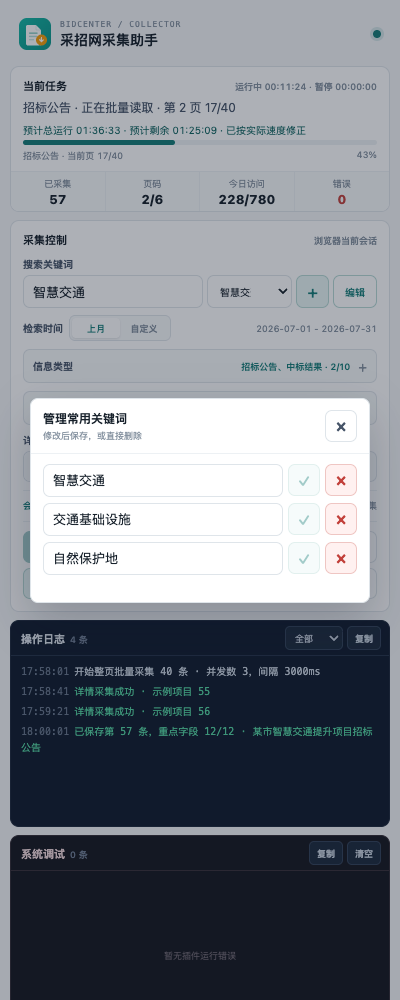
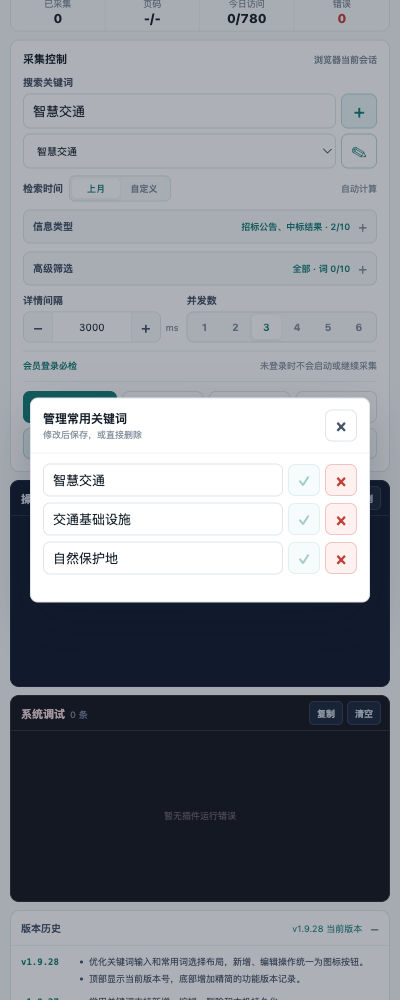
feat: 优化关键词控件和版本展示

diff --git a/sidepanel.css b/sidepanel.css
@@ -33,7 +33,7 @@ button:disabled { cursor: not-allowed; opacity: .4; }
 .activation-shell { width: min(100%, 380px); }
 .activation-brand { display: flex; align-items: center; gap: 9px; margin-bottom: 10px; }
 .activation-logo { width: 34px; height: 34px; flex: 0 0 auto; border-radius: 8px; }
-.activation-brand strong { display: block; margin-top: 2px; font-size: 15px; }
+.activation-brand strong { margin-top: 2px; font-size: 15px; }
 .activation-content { padding: 12px 0 11px; border-block: 1px solid var(--line); }
 .activation-content h2 { margin: 0 0 6px; font-size: 19px; line-height: 25px; }
 .activation-free-notice { margin: 0; padding: 6px 8px; border-left: 3px solid var(--accent); background: var(--accent-soft); color: var(--text-2); font-size: 10px; line-height: 15px; }
@@ -71,6 +71,8 @@ button:disabled { cursor: not-allowed; opacity: .4; }
 .brand-copy { min-width: 0; flex: 1; }
 .brand-kicker { color: var(--muted); font: 8px/11px ui-monospace, SFMono-Regular, Menlo, monospace; letter-spacing: .12em; }
 h1 { margin: 1px 0 0; font-size: 14px; line-height: 18px; font-weight: 750; }
+.brand-title { display: flex; min-width: 0; align-items: center; gap: 6px; }
+.version-badge { display: inline-flex; height: 17px; flex: 0 0 auto; align-items: center; padding: 0 5px; border: 1px solid #b7d9d5; border-radius: 4px; background: var(--accent-soft); color: var(--accent); font: 700 8px/1 ui-monospace, SFMono-Regular, Menlo, monospace; }
 .status-dot { width: 8px; height: 8px; flex: 0 0 auto; border-radius: 50%; background: #c3cdd4; }
 .status-dot.running { background: var(--accent); box-shadow: 0 0 0 3px rgba(22,125,120,.14); }
 .status-dot.waiting, .status-dot.paused { background: var(--warning); box-shadow: 0 0 0 3px rgba(213,138,23,.14); }
@@ -101,10 +103,12 @@ h1 { margin: 1px 0 0; font-size: 14px; line-height: 18px; font-weight: 750; }
 input, select { height: 33px; border: 1px solid var(--line); border-radius: 7px; background: var(--surface); color: var(--text); }
 input { width: 100%; min-width: 0; padding: 0 9px; }
 input:focus, select:focus { border-color: #71aaa6; outline: none; box-shadow: 0 0 0 2px rgba(22,125,120,.11); }
-.keyword-input-row { display: grid; grid-template-columns: minmax(0, 1fr) 85px 33px 44px; min-width: 0; gap: 4px; }
-.keyword-input-row select { width: 100%; min-width: 0; padding: 0 24px 0 8px; font-size: 10px; }
-.add-keyword, .manage-keywords { width: 33px; height: 33px; padding: 0; border-color: #b7d9d5; background: var(--accent-soft); color: var(--accent); font-size: 17px; font-weight: 500; }
-.manage-keywords { width: 44px; background: var(--surface); font-size: 10px; }
+.keyword-controls { display: grid; min-width: 0; gap: 5px; }
+.keyword-control-row { display: grid; grid-template-columns: minmax(0, 1fr) 36px; min-width: 0; gap: 5px; }
+.keyword-control-row input, .keyword-control-row select { width: 100%; min-width: 0; height: 35px; }
+.keyword-control-row select { padding: 0 28px 0 9px; font-size: 10px; }
+.keyword-icon-button { width: 36px; height: 35px; padding: 0; border-color: #b7d9d5; background: var(--accent-soft); color: var(--accent); font-size: 18px; font-weight: 500; }
+.manage-keywords { background: var(--surface); font-size: 17px; }
 .add-keyword:hover:not(:disabled), .manage-keywords:hover:not(:disabled) { border-color: #71aaa6; background: #dff1ef; color: var(--accent-hover); }
 .keyword-manager-dialog { width: min(calc(100vw - 24px), 340px); max-height: min(76vh, 520px); padding: 0; overflow: hidden; border: 1px solid var(--line); border-radius: 8px; background: var(--surface); color: var(--text); box-shadow: 0 18px 45px rgba(15,23,42,.22); }
 .keyword-manager-dialog::backdrop { background: rgba(15,23,42,.34); }
@@ -218,6 +222,18 @@ input:focus, select:focus { border-color: #71aaa6; outline: none; box-shadow: 0 
 .debug-empty { display: grid; height: 100%; place-items: center; color: #6f6770; font-size: 9px; }
 .debug-logs::-webkit-scrollbar { width: 6px; }
 .debug-logs::-webkit-scrollbar-thumb { border-radius: 99px; background: #403640; }
+.version-history { overflow: hidden; border: 1px solid var(--line); border-radius: var(--radius); background: var(--surface); }
+.version-history summary { display: flex; min-width: 0; height: 34px; align-items: center; gap: 8px; padding: 0 10px; color: var(--text-2); cursor: pointer; list-style: none; }
+.version-history summary::-webkit-details-marker { display: none; }
+.version-history summary::after { content: "+"; flex: 0 0 auto; color: var(--muted); font-size: 14px; }
+.version-history[open] summary::after { content: "−"; }
+.version-history summary span { font-size: 10px; font-weight: 750; }
+.version-history summary small { min-width: 0; margin-left: auto; overflow: hidden; color: var(--accent); font-size: 9px; text-overflow: ellipsis; white-space: nowrap; }
+.version-history-list { display: grid; gap: 8px; padding: 8px 10px 10px; border-top: 1px solid var(--line-soft); }
+.version-history article { display: grid; grid-template-columns: 48px minmax(0, 1fr); gap: 6px; }
+.version-history article strong { color: var(--accent); font: 700 9px/15px ui-monospace, SFMono-Regular, Menlo, monospace; }
+.version-history ul { min-width: 0; margin: 0; padding-left: 14px; color: var(--text-2); font-size: 9px; line-height: 15px; }
+.version-history li + li { margin-top: 2px; }
 .footer-row { display: grid; grid-template-columns: auto minmax(0, 1fr); align-items: center; gap: 2px 8px; min-height: 36px; color: var(--muted); font-size: 9px; }
 .footer-row > span { min-width: 0; overflow: hidden; white-space: nowrap; text-overflow: ellipsis; }
 .footer-row #last-action { grid-column: 1 / -1; }
@@ -227,7 +243,6 @@ input:focus, select:focus { border-color: #71aaa6; outline: none; box-shadow: 0 
   .activation-input-row { grid-template-columns: 1fr; }
   .activation-input-row button { width: 100%; }
   .workspace { padding: 8px; }
-  .keyword-input-row { grid-template-columns: minmax(0, 1fr) 78px 33px 44px; }
   .settings-grid { grid-template-columns: 1fr; }
   .action-grid { grid-template-columns: repeat(2, 1fr); }
   .utility-row { grid-template-columns: 1fr 1fr; }

diff --git a/sidepanel.html b/sidepanel.html
@@ -13,7 +13,7 @@
           <img class="activation-logo" src="logo.svg" alt="采招网采集助手 logo">
           <div>
             <div class="brand-kicker">BIDCENTER / COLLECTOR</div>
-            <strong>采招网采集助手</strong>
+            <strong class="brand-title">采招网采集助手 <span class="version-badge" data-app-version>v1.9.28</span></strong>
           </div>
         </header>
 
@@ -55,7 +55,7 @@
         <img class="brand-logo" src="logo.svg" alt="采招网采集助手 logo">
         <div class="brand-copy">
           <div class="brand-kicker">BIDCENTER / COLLECTOR</div>
-          <h1>采招网采集助手</h1>
+          <h1 class="brand-title">采招网采集助手 <span class="version-badge" data-app-version>v1.9.28</span></h1>
         </div>
         <span id="status-dot" class="status-dot" aria-label="任务状态" title="任务状态"></span>
       </header>
@@ -77,16 +77,20 @@
       <section class="search-panel">
         <div class="section-heading"><span>采集控制</span><small>浏览器当前会话</small></div>
         <label class="field-label" for="keyword">搜索关键词</label>
-        <div class="keyword-input-row">
-          <input id="keyword" value="智慧交通" maxlength="80" autocomplete="off" placeholder="输入搜索关键词">
-          <select id="keyword-options" aria-label="选择常用关键词">
-            <option value="">常用词</option>
-            <option value="智慧交通" selected>智慧交通</option>
-            <option value="交通基础设施">交通基础设施</option>
-            <option value="自然保护地">自然保护地</option>
-          </select>
-          <button id="add-keyword" class="add-keyword" type="button" aria-label="添加到常用关键词" title="添加到常用关键词">+</button>
-          <button id="manage-keywords" class="manage-keywords" type="button" aria-label="编辑常用关键词" title="编辑常用关键词">编辑</button>
+        <div class="keyword-controls">
+          <div class="keyword-control-row">
+            <input id="keyword" value="智慧交通" maxlength="80" autocomplete="off" placeholder="输入搜索关键词">
+            <button id="add-keyword" class="keyword-icon-button add-keyword" type="button" aria-label="添加到常用关键词" title="添加到常用关键词">+</button>
+          </div>
+          <div class="keyword-control-row">
+            <select id="keyword-options" aria-label="选择常用关键词">
+              <option value="">选择常用关键词</option>
+              <option value="智慧交通" selected>智慧交通</option>
+              <option value="交通基础设施">交通基础设施</option>
+              <option value="自然保护地">自然保护地</option>
+            </select>
+            <button id="manage-keywords" class="keyword-icon-button manage-keywords" type="button" aria-label="编辑常用关键词" title="编辑常用关键词"><span aria-hidden="true">✎</span></button>
+          </div>
         </div>
         <div class="time-filter" aria-label="检索时间">
           <span class="time-filter-label">检索时间</span>
@@ -204,6 +208,27 @@
           <div class="debug-empty">暂无插件运行错误</div>
         </div>
       </section>
+
+      <details class="version-history">
+        <summary><span>版本历史</span><small>v1.9.28 当前版本</small></summary>
+        <div class="version-history-list">
+          <article>
+            <strong>v1.9.28</strong>
+            <ul>
+              <li>优化关键词输入和常用词选择布局，新增、编辑操作统一为图标按钮。</li>
+              <li>顶部显示当前版本号，底部增加精简的功能版本记录。</li>
+            </ul>
+          </article>
+          <article>
+            <strong>v1.9.27</strong>
+            <ul>
+              <li>常用关键词支持新增、编辑、删除和本机持久化。</li>
+              <li>增加任务预计总耗时、剩余时间、实际速度修正和跨日提醒。</li>
+              <li>激活页支持粘贴激活码，并优化二维码、永久免费及免责声明展示。</li>
+            </ul>
+          </article>
+        </div>
+      </details>
 
       <footer class="footer-row">
         <span id="last-action">尚未开始任务</span>

diff --git a/sidepanel.js b/sidepanel.js
@@ -73,6 +73,10 @@ function startStatePolling() {
 }
 
 async function initializeSidepanel() {
+  const version = chrome.runtime.getManifest().version;
+  document.querySelectorAll('[data-app-version]').forEach((element) => {
+    element.textContent = `v${version}`;
+  });
   const stored = await chrome.storage.local.get(ACTIVATION_STORAGE_KEY);
   const isActivated = stored[ACTIVATION_STORAGE_KEY]?.activated === true;
   showActivationView(isActivated);
@@ -397,7 +401,7 @@ function renderKeywordOptions() {
   const selected = $('#keyword').value.trim();
   const placeholder = document.createElement('option');
   placeholder.value = '';
-  placeholder.textContent = '常用词';
+  placeholder.textContent = '选择常用关键词';
   $('#keyword-options').replaceChildren(placeholder, ...keywordOptions.map((keyword) => {
     const option = document.createElement('option');
     option.value = keyword;

diff --git a/README.md b/README.md
@@ -153,10 +153,13 @@ docs/screenshots/      GitHub 产品截图
 
 ## 更新记录
 
+### 2026-08-14 · v1.9.28
+
+- 优化关键词输入框与常用词下拉框布局，新增和编辑操作统一为图标按钮。
+- 插件顶部显示当前版本号，操作页底部增加精简的功能版本历史。
+
 ### 2026-08-14 · v1.9.27
 
-- 建立 GitHub 公开项目、中文 README、产品截图和发布下载入口。
-- 在激活首页和采集操作页增加 GitHub 开源项目访问链接。
 - 常用关键词支持新增、编辑、删除和刷新后持久化。
 - 激活首页支持复制粘贴激活码，缩小二维码并强化永久免费与免责声明提示。
 - 增加当次任务预计总耗时、剩余时间、实际速度修正和跨日提醒。
